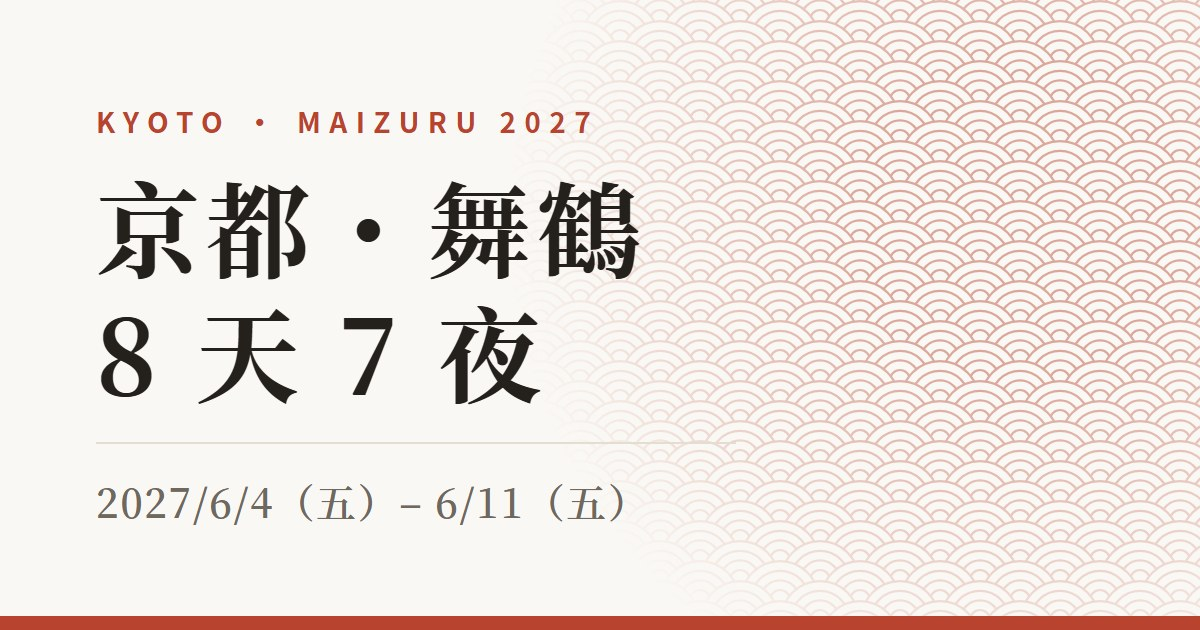
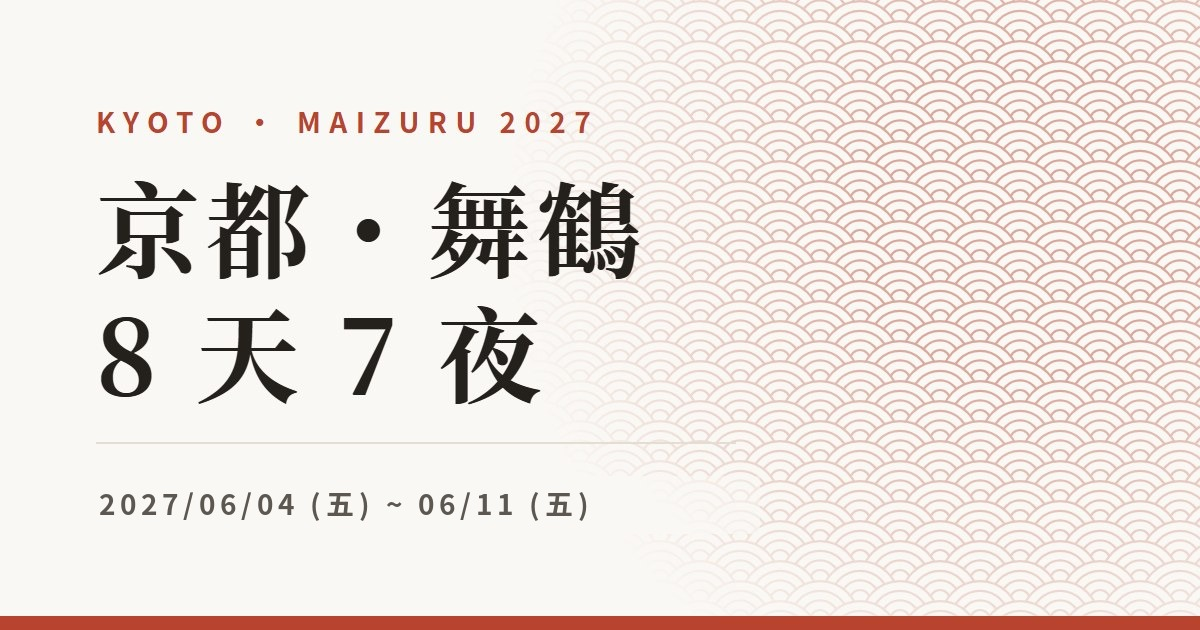
20261023

Changed region(s): [[0.0617, 0.754, 0.5242, 0.8444]]

diff --git a/trip/202706-kyoto-maizuru/index.html b/trip/202706-kyoto-maizuru/index.html
@@ -3,8 +3,8 @@
   <head>
     <meta charset="utf-8" />
     <meta name="viewport" content="width=device-width, initial-scale=1" />
-    <title>京都・舞鶴 8 天 7 夜｜2027/6/4–6/11</title>
-    <meta name="description" content="京都・舞鶴 8 天 7 夜自由行行程：2027/6/4（五）–6/11（五），每日時間軸、交通導航、時刻表與出發前確認清單。" />
+    <title>京都・舞鶴 8 天 7 夜｜2027/06/04 ~ 06/11</title>
+    <meta name="description" content="京都・舞鶴 8 天 7 夜自由行行程：2027/06/04 (五) ~ 06/11 (五)，每日時間軸、交通導航、時刻表與出發前確認清單。" />
     <meta name="theme-color" content="#faf8f4" media="(prefers-color-scheme: light)" />
     <meta name="theme-color" content="#16151a" media="(prefers-color-scheme: dark)" />
     <link rel="icon" href="img/favicon.svg" type="image/svg+xml" />
@@ -13,12 +13,12 @@
     <meta property="og:type" content="website" />
     <meta property="og:site_name" content="KYOTO · MAIZURU 2027" />
     <meta property="og:title" content="京都・舞鶴 8 天 7 夜" />
-    <meta property="og:description" content="2027/6/4（五）–6/11（五）自由行行程：每日時間軸、交通導航、時刻表與確認清單。" />
+    <meta property="og:description" content="2027/06/04 (五) ~ 06/11 (五)自由行行程：每日時間軸、交通導航、時刻表與確認清單。" />
     <meta property="og:url" content="https://yuefenglinatwork.github.io/trip/202706-kyoto-maizuru/" />
     <meta property="og:image" content="https://yuefenglinatwork.github.io/trip/202706-kyoto-maizuru/img/og.jpg" />
     <meta property="og:image:width" content="1200" />
     <meta property="og:image:height" content="630" />
-    <meta property="og:image:alt" content="京都・舞鶴 8 天 7 夜，2027/6/4（五）–6/11（五）" />
+    <meta property="og:image:alt" content="京都・舞鶴 8 天 7 夜，2027/06/04 (五) ~ 06/11 (五)" />
     <meta property="og:locale" content="zh_TW" />
     <meta property="og:locale:alternate" content="ja_JP" />
     <meta name="twitter:card" content="summary_large_image" />
@@ -170,12 +170,11 @@
         font-weight: 700;
       }
       .hero .sub {
-        font-family: var(--serif);
-        font-weight: 600;
-        letter-spacing: 0.04em;
+        font-weight: 700;
+        letter-spacing: 0.3em;
         color: var(--muted);
         margin: 0;
-        font-size: 18px;
+        font-size: 14px;
       }
       .flights {
         display: grid;
@@ -1543,9 +1542,9 @@
 
       const UI = {
         zh: {
-          docTitle: "京都・舞鶴 8 天 7 夜｜2027/6/4–6/11",
+          docTitle: "京都・舞鶴 8 天 7 夜｜2027/06/04 ~ 06/11",
           title: "京都・舞鶴 8 天 7 夜",
-          sub: "2027/6/4（五）– 6/11（五）",
+          sub: "2027/06/04 (五) ~ 06/11 (五)",
           airline: "星宇",
           overview: "總覽",
           stayTitle: "住宿安排",
@@ -1593,9 +1592,9 @@
           wd: ["日", "一", "二", "三", "四", "五", "六"],
         },
         ja: {
-          docTitle: "京都・舞鶴 7泊8日｜2027/6/4–6/11",
+          docTitle: "京都・舞鶴 7泊8日｜2027/06/04 ~ 06/11",
           title: "京都・舞鶴 7泊8日",
-          sub: "2027/6/4（金）– 6/11（金）",
+          sub: "2027/06/04 (金) ~ 06/11 (金)",
           airline: "スターラックス",
           overview: "概要",
           stayTitle: "宿泊",
@@ -1669,7 +1668,7 @@
           date: "6/4",
           name: L("Umekoji Potel KYOTO", "Umekoji Potel KYOTO"),
           note: L(
-            "抵達日入住。訂房時詢問 6/5–6/6 能否寄放大行李。",
+            "抵達日入住。訂房時詢問 6/5 ~ 6/6 能否寄放大行李。",
             "到着日にチェックイン。予約時に 6/5〜6/6 の荷物預かりができるか確認。",
           ),
         },
@@ -1687,7 +1686,7 @@
         },
         {
           nights: L("5 晚", "5 泊"),
-          date: "6/6–6/10",
+          date: "6/6 ~ 6/10",
           name: L("Umekoji Potel KYOTO", "Umekoji Potel KYOTO"),
           note: L(
             "鐵道博物館、水族館都在步行範圍；搭 JR 嵯峨野線 1 站（約 2 分鐘）就到京都站。",
@@ -2954,7 +2953,7 @@
               "<b>月桂冠大倉記念館：</b>9:30〜16:30（受付 16:00 まで）、大人 600 円（きき酒 3 種・おみやげ付き）。",
             ),
             L(
-              "<b>三室戶寺 紫陽花園：</b>2026 年是 5/31–7/5 開放，8:30–15:10 受理入園、16:30 前下山，大人 1,000 日圓，不用預約。2027 年的日期出發前到官網確認（0774-21-2067）。15:10 是硬性截止，サワダマキ待太久就先跳過午餐、直接過去。",
+              "<b>三室戶寺 紫陽花園：</b>2026 年是 5/31 ~ 7/5 開放，8:30–15:10 受理入園、16:30 前下山，大人 1,000 日圓，不用預約。2027 年的日期出發前到官網確認（0774-21-2067）。15:10 是硬性截止，サワダマキ待太久就先跳過午餐、直接過去。",
               "<b>三室戸寺 あじさい園：</b>2026 年は 5/31〜7/5 公開、受付 8:30〜15:10、16:30 までに下山、大人 1,000 円、予約不要。2027 年の日程は出発前に公式サイトで確認（0774-21-2067）。15:10 の受付締切は厳守、サワダマキが長引いたら昼食を後回しにして直行。",
             ),
           ],
@@ -3277,7 +3276,7 @@
       const GROUPS = {
         now: L("機票、住宿", "航空券・宿泊"),
         mar: L("2027 年 3 月", "2027 年 3 月"),
-        aprmay: L("2027 年 4–5 月", "2027 年 4〜5 月"),
+        aprmay: L("2027 年 4 ~ 5 月", "2027 年 4〜5 月"),
         before: L("出發前", "出発前"),
       };
       const C = (id, g, tag, title, date, sub, ds, links) => ({
@@ -3315,10 +3314,10 @@
           "now",
           "p1",
           L("Umekoji Potel KYOTO", "Umekoji Potel KYOTO"),
-          L("6/4、6/6–6/10", "6/4・6/6〜6/10"),
+          L("6/4、6/6 ~ 6/10", "6/4・6/6〜6/10"),
           L("共 6 晚", "計 6 泊"),
           L(
-            "6/4 一晚＋6/6–6/10 五晚。核對日期、人數、取消規定；詢問 6/5–6/6 能否寄放行李。",
+            "6/4 一晚＋6/6 ~ 6/10 五晚。核對日期、人數、取消規定；詢問 6/5 ~ 6/6 能否寄放行李。",
             "6/4 の 1 泊＋6/6〜6/10 の 5 泊。日付・人数・キャンセル規定を確認。6/5〜6/6 に荷物を預けられるか確認。",
           ),
         ),
@@ -3369,7 +3368,7 @@
           "widepass",
           "aprmay",
           "p1",
-          L("關西廣域周遊券（6/4–6/8）", "関西広域パス（6/4〜6/8）"),
+          L("關西廣域周遊券（6/4 ~ 6/8）", "関西広域パス（6/4〜6/8）"),
           L("5/4", "5/4"),
           L("10:00 開放", "10:00 受付開始"),
           L(
@@ -3596,7 +3595,7 @@
           "before",
           "p1",
           L("Visit Japan Web 入境登錄", "Visit Japan Web 入国手続き"),
-          L("5/21–5/28", "5/21〜5/28"),
+          L("5/21 ~ 5/28", "5/21〜5/28"),
           L("出發前 1–2 週", "出発 1〜2 週間前"),
           L(
             "只認官方網址 www.vjw.digital.go.jp（小心假網站）。建立帳號 → 登錄護照 → 登錄入境、回國預定（JX820、住 Umekoji Potel）→ 填「外國人入境記錄」和「海關申報」→ 拿到 QR Code，截圖存在手機。確認護照效期涵蓋到 6/11 回國。",
@@ -3620,10 +3619,10 @@
           "before",
           "before",
           L("買日本 SIM 卡／eSIM", "日本用 SIM／eSIM の購入"),
-          L("5/21–5/28", "5/21〜5/28"),
+          L("5/21 ~ 5/28", "5/21〜5/28"),
           L("出發前 1–2 週", "出発 1〜2 週間前"),
           L(
-            "6/4–6/11 共 8 天，選 8 天以上、走 docomo 或 SoftBank 網路的方案（舞鶴、天橋立收訊比較穩）。手機支援 eSIM 的話買 eSIM，出發前在家連 Wi-Fi 先安裝好、落地再開啟；不支援就買實體 SIM，記得帶退卡針，原本的台灣 SIM 卡收好。導航、Visit Japan Web 都要用網路，流量建議每天 1GB 以上或吃到飽。",
+            "6/4 ~ 6/11 共 8 天，選 8 天以上、走 docomo 或 SoftBank 網路的方案（舞鶴、天橋立收訊比較穩）。手機支援 eSIM 的話買 eSIM，出發前在家連 Wi-Fi 先安裝好、落地再開啟；不支援就買實體 SIM，記得帶退卡針，原本的台灣 SIM 卡收好。導航、Visit Japan Web 都要用網路，流量建議每天 1GB 以上或吃到飽。",
             "6/4〜6/11 の 8 日間。8 日以上で docomo か SoftBank 回線のプランを（舞鶴・天橋立でも安定）。eSIM 対応機なら eSIM を、出発前に自宅の Wi-Fi でインストールしておき着陸後にオン。非対応なら物理 SIM を買い、SIM ピンを持参、台湾の SIM は大切に保管。ナビや Visit Japan Web で通信を使うので、1 日 1GB 以上か無制限がおすすめ。",
           ),
         ),
@@ -3709,14 +3708,14 @@
         {
           icon: "train",
           ...L(
-            "<b>6/5–6/6 舞鶴繞一圈</b>：去程 10:25 京都 → 12:36 天橋立搭 JR 特急「はしだて 5 號」，接黑松號到西舞鶴；回程 14:28 東舞鶴 → 16:06 京都搭特急「まいづる 10 號」。兩班特急都是全車指定席，要先用周遊券劃位。",
+            "<b>6/5 ~ 6/6 舞鶴繞一圈</b>：去程 10:25 京都 → 12:36 天橋立搭 JR 特急「はしだて 5 號」，接黑松號到西舞鶴；回程 14:28 東舞鶴 → 16:06 京都搭特急「まいづる 10 號」。兩班特急都是全車指定席，要先用周遊券劃位。",
             "<b>6/5〜6/6 舞鶴を一周</b>：往路は 10:25 京都 → 12:36 天橋立の JR 特急「はしだて 5 号」、くろまつ号で西舞鶴へ。復路は 14:28 東舞鶴 → 16:06 京都の特急「まいづる 10 号」。どちらも全車指定席なので、パスで事前に座席指定を。",
           ),
         },
         {
           icon: "ticket",
           ...L(
-            "<b>關西廣域周遊券（6/4–6/8）</b>：涵蓋 6/4 HARUKA、6/5 はしだて（含福知山以北的京都丹後鐵道區間）、6/5 JR 舞鶴線、6/6 まいづる、6/7 JR 嵯峨野線；特急要先劃位。黑松號的餐飲方案要另外付費，方案費用是否已含車資，訂位時確認。<b>不含</b>：地鐵、近鐵、京阪、京都交通巴士、6/11 回程 HARUKA。京都市區的地鐵、近鐵、京阪用 ICOCA；舞鶴的京都交通巴士付現金或用かまぼこ手形；6/11 HARUKA 另外買票。",
+            "<b>關西廣域周遊券（6/4 ~ 6/8）</b>：涵蓋 6/4 HARUKA、6/5 はしだて（含福知山以北的京都丹後鐵道區間）、6/5 JR 舞鶴線、6/6 まいづる、6/7 JR 嵯峨野線；特急要先劃位。黑松號的餐飲方案要另外付費，方案費用是否已含車資，訂位時確認。<b>不含</b>：地鐵、近鐵、京阪、京都交通巴士、6/11 回程 HARUKA。京都市區的地鐵、近鐵、京阪用 ICOCA；舞鶴的京都交通巴士付現金或用かまぼこ手形；6/11 HARUKA 另外買票。",
             "<b>関西広域パス（6/4〜6/8）</b>：6/4 のはるか、6/5 のはしだて（福知山以北の京都丹後鉄道区間を含む）、6/5 の JR 舞鶴線、6/6 のまいづる、6/7 の JR 嵯峨野線をカバー。特急は事前に座席指定を。くろまつ号の食事プランは別料金で、運賃が含まれるかは予約時に確認。<b>対象外</b>：地下鉄、近鉄、京阪、京都交通バス、6/11 復路のはるか。京都市内の地下鉄・近鉄・京阪は ICOCA、舞鶴の京都交通バスは現金かかまぼこ手形、6/11 のはるかは別途購入。",
           ),
         },

diff --git a/trip/202706-kyoto-maizuru/CLAUDE.md b/trip/202706-kyoto-maizuru/CLAUDE.md
@@ -1,6 +1,6 @@
 # CLAUDE.md
 
-京都・舞鶴 8 天 7 夜（2027/6/4（五）–6/11（五））自由行的行程網頁。使用者出發前規劃、旅途中用手機查看。介面為繁體中文／日文雙語，使用者用繁體中文溝通。
+京都・舞鶴 8 天 7 夜（2027/06/04 (五) ~ 06/11 (五)）自由行的行程網頁。使用者出發前規劃、旅途中用手機查看。介面為繁體中文／日文雙語，使用者用繁體中文溝通。
 
 ## 檔案
 
@@ -117,6 +117,7 @@
 - 京都交通 PDF 的 ※ 是「土日祝運休」，用旅行當天的星期對班次。
 - 中文說明文字用台灣字形（三室戶寺、棧橋、田邊城跡），避免 Big5 沒有的日文字形在中文字體下顯示怪異；導航起訖、`map`、地址保留日文原字給 Google Maps 查詢。
 - 用字統一：記念館（不寫紀念館）、巴士（不寫公車）、大人（不寫成人票）、舞鶴灣遊覽船、紅磚公園。
+- 旅程日期寫「2027/06/04 (五) ~ 06/11 (五)」（補零、半形括號、前後有空格的 ~），標題、頁首、meta、`og.jpg` 一致；內文中文日期範圍寫「6/5 ~ 6/6」，日文維持「6/5〜6/6」；時間範圍（10:00–20:00）不變。
 - 日文可以用指南式省略（〜へ、〜を），但動詞不能省到看不懂（寫「日付印を押してもらう」「普通に乗る」）。
 
 ## 已查證的事實（2026/10）
